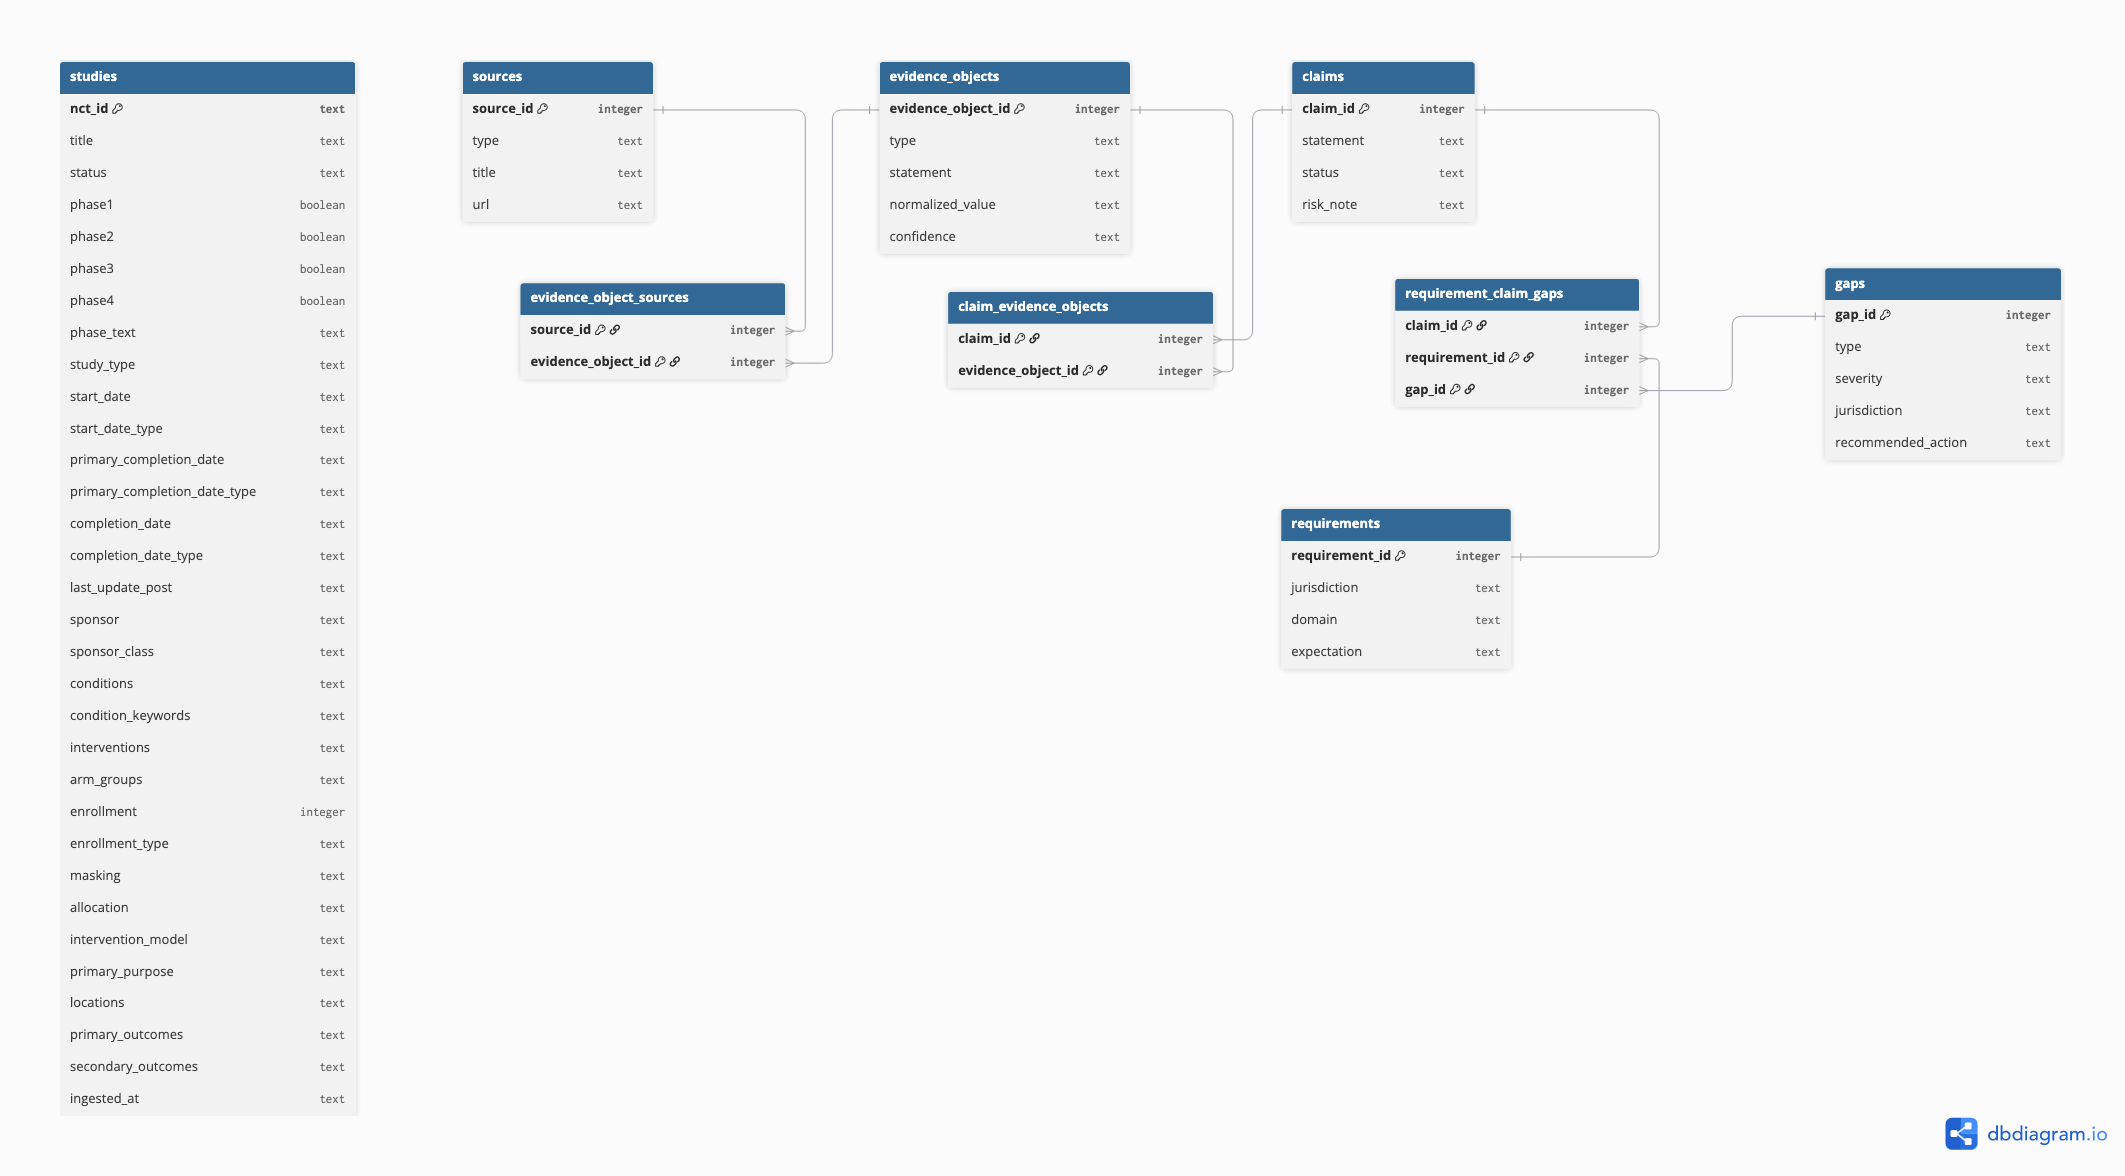
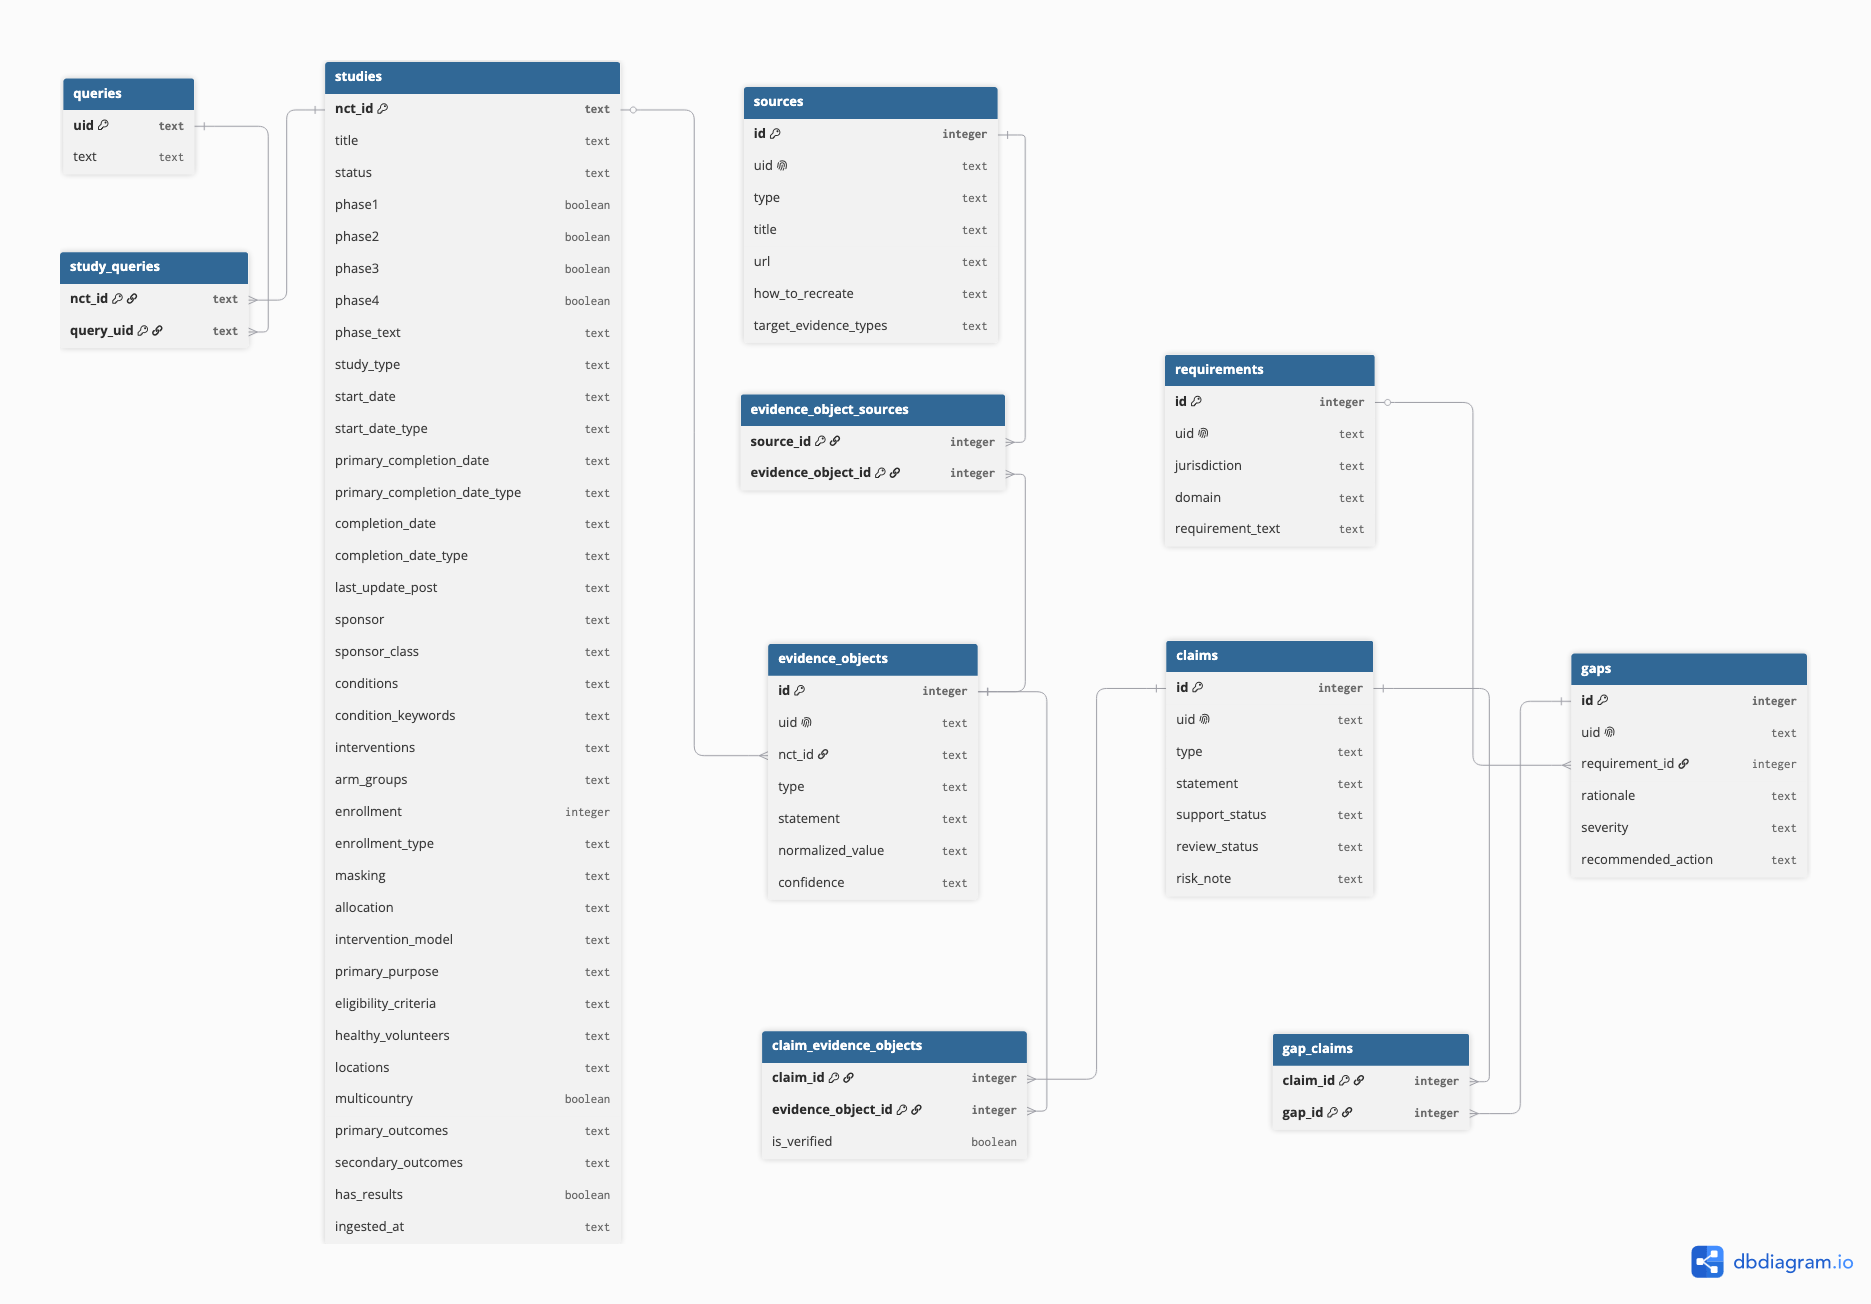
fixed small data type bug, updated shcema diagram

diff --git a/backend_py/db.py b/backend_py/db.py
@@ -76,7 +76,7 @@ CREATE TABLE IF NOT EXISTS evidence_objects (
     type                    TEXT, -- could be turned into a fk with a set of options
     statement               TEXT, -- maybe this should be called content?
     normalized_value        TEXT,
-    confidence              TEXT -- could also be turned into a fk with a set of options
+    confidence              TEXT
 );
 
 CREATE TABLE IF NOT EXISTS claims (
@@ -113,7 +113,7 @@ CREATE TABLE IF NOT EXISTS gaps (
 RELATIONSHIPS_SCHEMA = """
 -- Many to many 
 CREATE TABLE IF NOT EXISTS study_queries (
-    nct_id               INTEGER,
+    nct_id                  TEXT,
     query_uid               TEXT,
     PRIMARY KEY (nct_id, query_uid),
     FOREIGN KEY (nct_id)